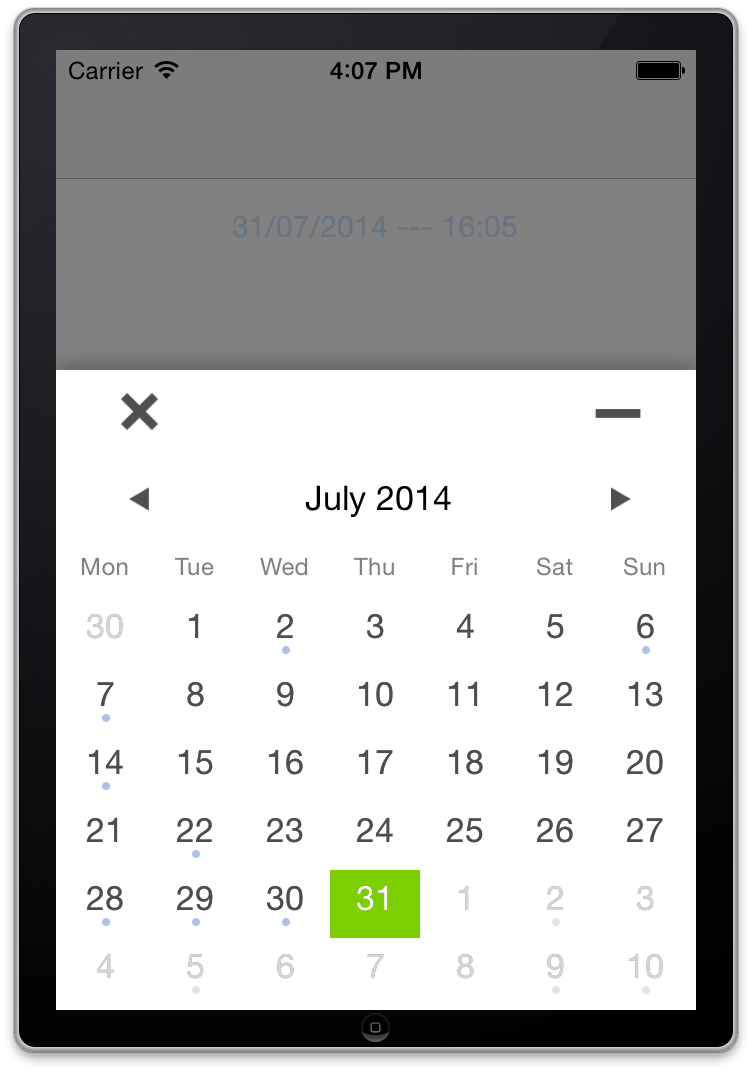
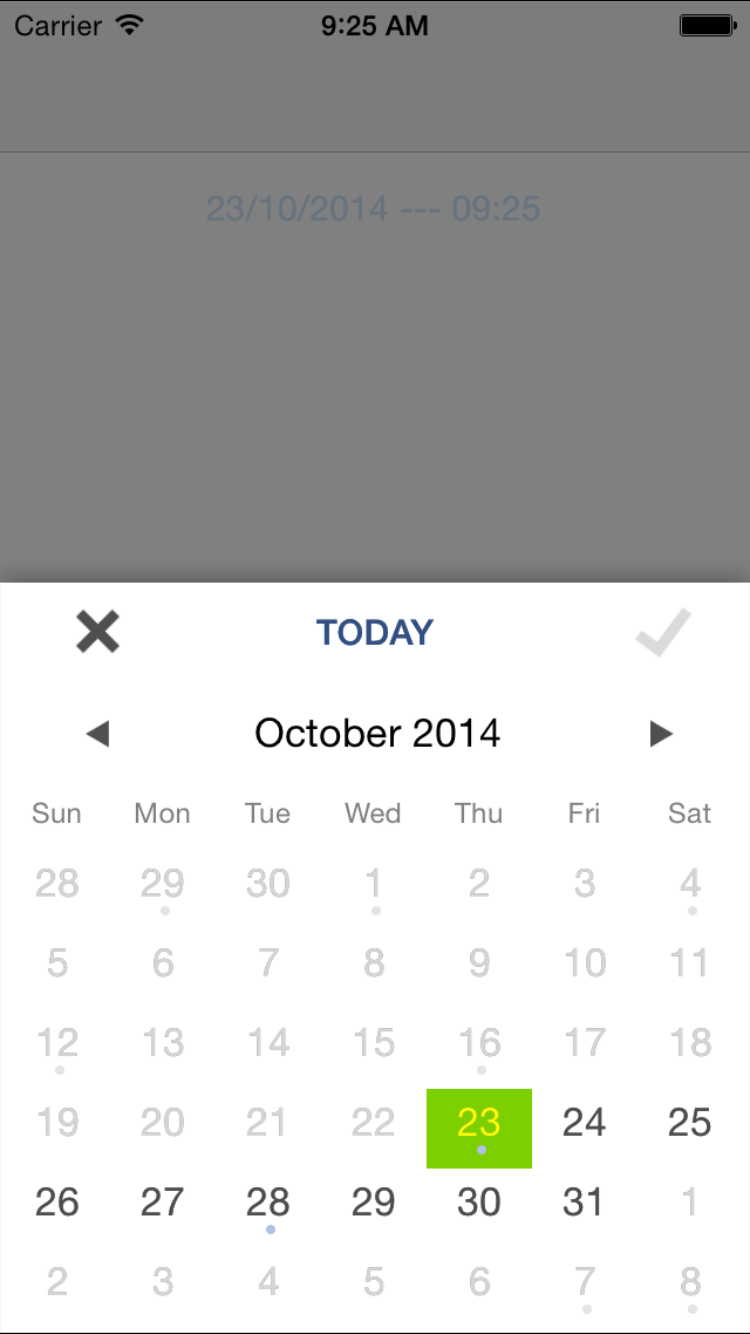
#11
Podspec to 0.2.2

diff --git a/THCalendarDatePicker/THDateDay.m b/THCalendarDatePicker/THDateDay.m
@@ -13,6 +13,8 @@
 @implementation THDateDay
 
 @synthesize selectedBackgroundColor = _selectedBackgroundColor;
+@synthesize currentDateColor = _currentDateColor;
+@synthesize currentDateColorSelected = _currentDateColorSelected;
 
 - (id)initWithFrame:(CGRect)frame
 {
@@ -20,6 +22,8 @@
     if (self) {
         // Initialization code
         _selectedBackgroundColor = [UIColor colorWithRed:89/255.0 green:118/255.0 blue:169/255.0 alpha:1];
+        _currentDateColor = [UIColor colorWithRed:242/255.0 green:121/255.0 blue:53/255.0 alpha:1.0];
+        _currentDateColorSelected = [UIColor whiteColor];
     }
     return self;
 }
@@ -53,7 +57,10 @@
         [self.dateButton setTitleColor:[UIColor colorWithWhite:.3 alpha:1] forState:UIControlStateNormal];
     }
     if (self.currentDateColor && [self isToday]) {
-        [self.dateButton setTitleColor:self.currentDateColor forState:/*selected ? UIControlStateSelected :*/ UIControlStateNormal];
+        [self.dateButton setTitleColor:self.currentDateColor forState:UIControlStateNormal];
+    }
+    if (self.currentDateColorSelected && [self isToday]) {
+        [self.dateButton setTitleColor:self.currentDateColorSelected forState:UIControlStateSelected];
     }
 }
 

diff --git a/THCalendarDatePicker/THDatePickerViewController.m b/THCalendarDatePicker/THDatePickerViewController.m
@@ -52,6 +52,7 @@
 @synthesize date = _date;
 @synthesize selectedBackgroundColor = _selectedBackgroundColor;
 @synthesize currentDateColor = _currentDateColor;
+@synthesize currentDateColorSelected = _currentDateColorSelected;
 
 - (id)initWithNibName:(NSString *)nibNameOrNil bundle:(NSBundle *)nibBundleOrNil {
     self = [super initWithNibName:nibNameOrNil bundle:nibBundleOrNil];
@@ -97,12 +98,7 @@
 
 #pragma mark - View Management
 
-<<<<<<< HEAD
 - (void)viewDidLoad {
-=======
-- (void)viewDidLoad
-{
->>>>>>> FETCH_HEAD
     [super viewDidLoad];
     [self configureButtonAppearances];
     if(_allowClearDate) [self showClearButton];
@@ -208,6 +204,8 @@
         THDateDay * day = [[[NSBundle mainBundle] loadNibNamed:@"THDateDay" owner:self options:nil] objectAtIndex:0];
         if (self.currentDateColor)
             [day setCurrentDateColor:self.currentDateColor];
+        if (self.currentDateColorSelected)
+            [day setCurrentDateColorSelected:self.currentDateColorSelected];
         if (self.selectedBackgroundColor)
             [day setSelectedBackgroundColor:self.selectedBackgroundColor];
         [day setLightText:![self dateInCurrentMonth:date]];

diff --git a/THCalendarDatePickerExample/THCalendarDatePickerExample/TestViewController.m b/THCalendarDatePickerExample/THCalendarDatePickerExample/TestViewController.m
@@ -56,6 +56,7 @@
     [self.datePicker setDisableFutureSelection:NO];
     [self.datePicker setSelectedBackgroundColor:[UIColor colorWithRed:125/255.0 green:208/255.0 blue:0/255.0 alpha:1.0]];
     [self.datePicker setCurrentDateColor:[UIColor colorWithRed:242/255.0 green:121/255.0 blue:53/255.0 alpha:1.0]];
+    [self.datePicker setCurrentDateColorSelected:[UIColor yellowColor]];
     
     [self.datePicker setDateHasItemsCallback:^BOOL(NSDate *date) {
         int tmp = (arc4random() % 30)+1;

diff --git a/THCalendarDatePicker/THDatePickerViewController.h b/THCalendarDatePicker/THDatePickerViewController.h
@@ -34,6 +34,7 @@
 @property (weak, nonatomic) id<THDatePickerDelegate> delegate;
 @property (strong, nonatomic) UIColor *selectedBackgroundColor;
 @property (strong, nonatomic) UIColor *currentDateColor;
+@property (strong, nonatomic) UIColor *currentDateColorSelected;
 
 - (void)setDateHasItemsCallback:(BOOL (^)(NSDate * date))callback;
 

diff --git a/THCalendarDatePicker/THDateDay.h b/THCalendarDatePicker/THDateDay.h
@@ -27,6 +27,7 @@
 @property (strong, nonatomic) NSDate *date;
 @property (strong, nonatomic) UIColor *selectedBackgroundColor;
 @property (strong, nonatomic) UIColor *currentDateColor;
+@property (strong, nonatomic) UIColor *currentDateColorSelected;
 
 - (IBAction)dateButtonTapped:(id)sender;
 

diff --git a/README.md b/README.md
@@ -22,7 +22,7 @@ Install with [CocoaPods](http://cocoapods.org) by adding the following to your P
 
 ``` ruby
 platform :ios, '6.1'
-pod 'THCalendarDatePicker', '~> 0.2.1'
+pod 'THCalendarDatePicker', '~> 0.2.2'
 ```
 
 **Note**: We follow http://semver.org for versioning the public API.
@@ -33,24 +33,17 @@ Or copy the `THCalendarDatePicker/` directory from this repo into your project.
 
 # Features
 
-### V0.2.1
+### V0.2.X
 
 - iOS8 deprecation warnings removed
+- Fixed issue [#11](https://github.com/hons82/THCalendarDatePicker/issues/11) 
+- Fixed issue [#7](https://github.com/hons82/THCalendarDatePicker/issues/7) 
+- Fixed issue [#5](https://github.com/hons82/THCalendarDatePicker/issues/5) 
 
-### V0.2.0
-
-- Fixed issue [#7](https://github.com/hons82/THCalendarDatePicker/issues/7) and [#5](https://github.com/hons82/THCalendarDatePicker/issues/5) 
-
-### V0.1.1
+### V0.1.X
 
 - Bugfix (Now it's taking the default starting day for the locale; but not the custom setting "Week starts on")
-
-### V0.1.0
-
 - Configurable if it should show future entries 
-
-### V0.0.2
-
 - Select a Date from Calendar
 - Awareness of the setting 4 the first weekday
 - Configurable Colors
